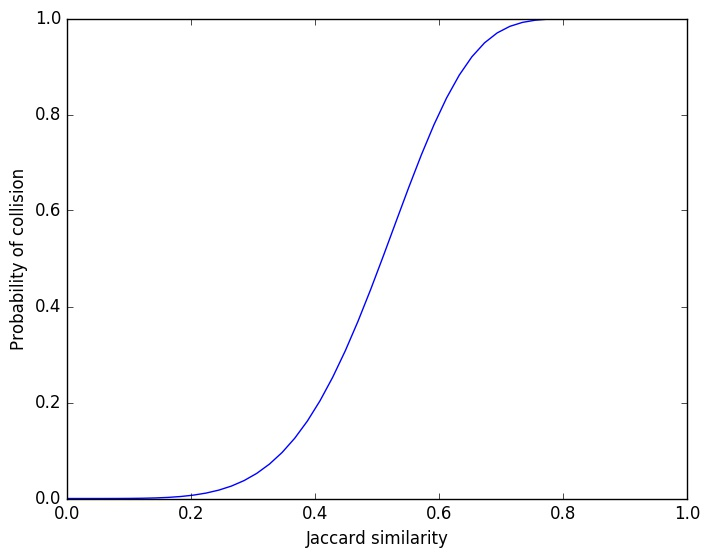
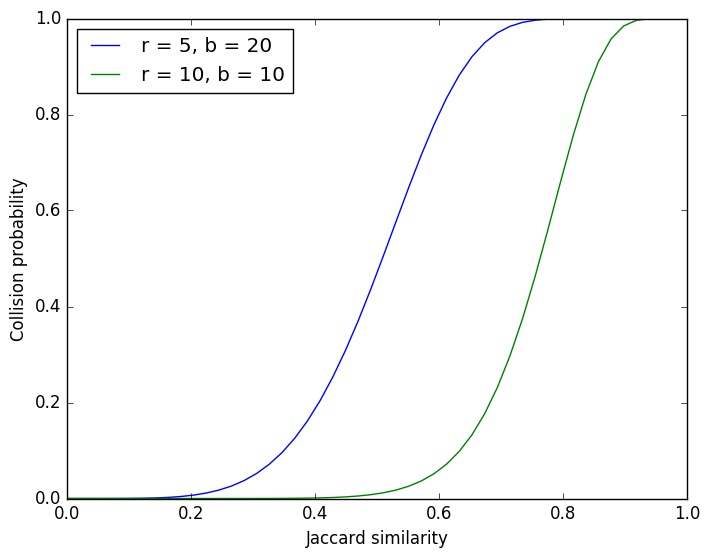
improve lsh probability plot

diff --git a/hw02/plot_lsh_probability.py b/hw02/plot_lsh_probability.py
@@ -1,18 +1,28 @@
 import pylab
-import numpy
+import numpy as np
 import os
 from hashing import BANDS, ROWS_PER_BAND
 
 
+R_ALT = 10
+B_ALT = 10
+
+
 def lsh_probability(x):
-    return 1 - (1 - x**ROWS_PER_BAND)**BANDS
+    return 1 - (1 - pow(x, ROWS_PER_BAND))**BANDS  # used pow() to avoid warning
+
+
+def lsh_probability_alternative(x):
+    return 1 - (1 - pow(x, R_ALT))**B_ALT  # used pow() to avoid warning
 
 
 if __name__ == "__main__":
-    x = numpy.linspace(0, 1)
-    pylab.plot(x, lsh_probability(x))
+    x_axis = np.linspace(0, 1)
+    pylab.plot(x_axis, lsh_probability(x_axis), label='r = %d, b = %d' % (ROWS_PER_BAND, BANDS))
+    pylab.plot(x_axis, lsh_probability_alternative(x_axis), label='r = %d, b = %d' % (R_ALT, B_ALT))
+    pylab.legend(loc=0)  # 0 -> best location
     pylab.xlabel('Jaccard similarity')
-    pylab.ylabel('Probability of collision')
+    pylab.ylabel('Collision probability')
     pylab.savefig(os.path.join(
         os.path.dirname(os.path.abspath(__file__)), 'report', 'img', 'lsh_probability.jpg'), bbox_inches='tight')
     pylab.show()
